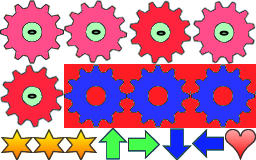
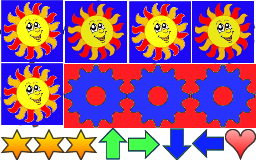
Change animation, add to Directions.html

diff --git a/Week07-Midterm/Directions.html b/Week07-Midterm/Directions.html
@@ -13,6 +13,7 @@
 		<!-- Latest compiled and minified JavaScript - Move to bottom of body element -->
 		<script src="//code.jquery.com/jquery.js"></script>
 		<script src="//netdna.bootstrapcdn.com/bootstrap/3.0.0/js/bootstrap.min.js"></script>
+	    <script src="index.js"></script>
 	</head>
 	<body>
 		<div class="navbar navbar-inverse navbar-fixed-top">
@@ -45,14 +46,25 @@
 		</div>
 
 		<div class="container">
+		    
+		    <br />
 
 			<div class="starter-template">
 			
-        		<h1 id="directions">Directions</h1>
+        		<h1 id="directions">Directions &nbsp; 
+            		
+        		</h1>
+        		<div>
+        		    <div id='drawHere01' class='draw-target'></div>
+    		    </div>
+    		    <br /><br /><br />
+    		    <hr />
+    		    
         		<p>Here is the address and map of Clear Lake which is located in Naples, WA in 
         		Mt. Baker - Snoqualmie National Forest. I have listed the main 2 campgrounds around
         		    the lake. The links also list the activities in the area.
         		</p>
+        		<br/>
         		
         		<h3 id="address"><img src="favicon.png" alt="favicon">&nbsp;Address</h3>
                 <ul>
@@ -102,16 +114,8 @@
                     </li>
                     
                 </ul>
-                
-                
-                
-                
                 <br />
-                
-                
-                
-
-
+            </div>
 		</div><!-- /.container -->
 
 	</body>

diff --git a/Week07-Midterm/index.css b/Week07-Midterm/index.css
@@ -14,6 +14,27 @@ body {
 	padding-top: 50px;
 }
 
+.right
+{
+    position:absolute;
+    right:0px;
+    width:100px;
+}
+
+.left
+{
+    position:absolute;
+    left:0px;
+    width:100px;
+}
+
+.padAnimation
+{
+    margin-top:50px;
+    margin-bottom:50px;
+    margin-right:90px;
+}
+
 .draw-target {
 	width: 74px;
 	height:74px;
